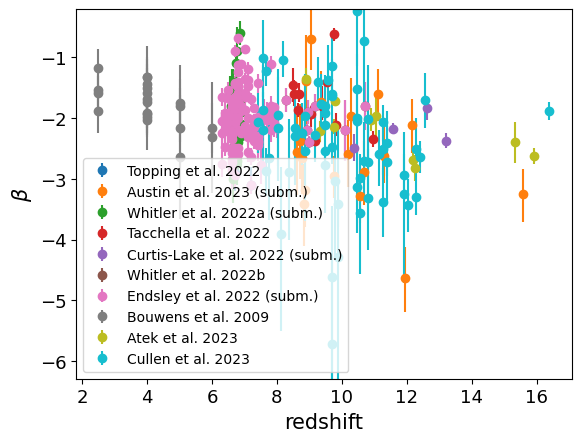
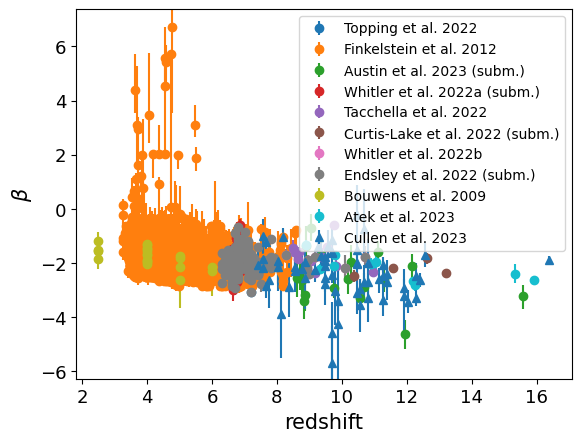
updated constraints

diff --git a/docs/datarst/UV_slope.rst b/docs/datarst/UV_slope.rst
@@ -61,6 +61,12 @@ Data
 
    <a href="https://arxiv.org/pdf/2208.14999.pdf" target="_blank">Endsley et al. 2022 (subm.)</a>
 
+|Finkelstein et al. 2012|
+
+.. |Finkelstein et al. 2012| raw:: html
+
+   <a href="https://iopscience.iop.org/article/10.1088/0004-637X/756/2/164/pdf" target="_blank">Finkelstein et al. 2012</a>
+
 |Tacchella et al. 2022|
 
 .. |Tacchella et al. 2022| raw:: html
